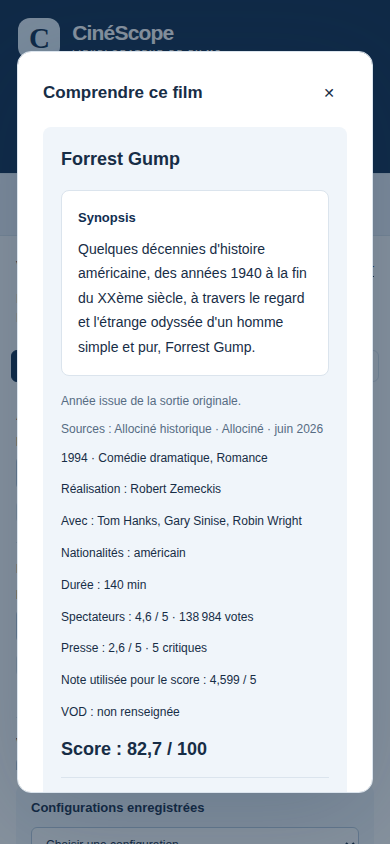
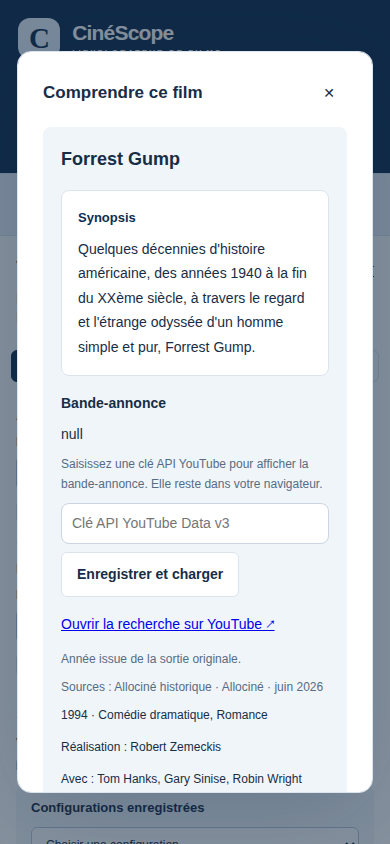
ok

Changed region(s): [[0.1538, 0.4621, 0.8308, 0.9242], [0.6154, 0.8934, 0.7692, 0.955], [0.7077, 0.8009, 0.8308, 0.8318]]

diff --git a/js/ui/results.js b/js/ui/results.js
@@ -1,36 +1,104 @@
 import { el, $, fmt, modal, labels } from "./dom.js";
+import {
+  readApiKey,
+  writeApiKey,
+  findTrailer,
+} from "../storage/youtube.js";
 const tags = (m) => m.genres.map((g) => el("span", { class: "tag" }, g));
-function trailerSection(m) {
-  const query = [m.title, m.year, "bande annonce vf"].filter(Boolean).join(" ");
-  const list = encodeURIComponent(query);
+function searchLink(query) {
   return el(
-    "section",
-    { class: "trailer" },
+    "a",
+    {
+      class: "trailer-link",
+      href:
+        "https://www.youtube.com/results?search_query=" +
+        encodeURIComponent(query),
+      target: "_blank",
+      rel: "noopener noreferrer",
+    },
+    "Ouvrir la recherche sur YouTube ↗",
+  );
+}
+function embed(section, videoId, title) {
+  section.replaceChildren(
     el("h4", {}, "Bande-annonce"),
     el(
       "div",
       { class: "trailer-frame" },
       el("iframe", {
-        src:
-          "https://www.youtube-nocookie.com/embed?listType=search&list=" + list,
-        title: "Bande-annonce de " + m.title,
+        src: "https://www.youtube-nocookie.com/embed/" + videoId,
+        title: "Bande-annonce de " + title,
         loading: "lazy",
         referrerpolicy: "strict-origin-when-cross-origin",
         allow: "encrypted-media; picture-in-picture; fullscreen",
         allowfullscreen: "",
       }),
     ),
-    el(
-      "a",
-      {
-        class: "trailer-link",
-        href: "https://www.youtube.com/results?search_query=" + list,
-        target: "_blank",
-        rel: "noopener noreferrer",
-      },
-      "Ouvrir la recherche sur YouTube ↗",
-    ),
   );
+}
+function trailerSection(m) {
+  const query = [m.title, m.year, "bande annonce vf"].filter(Boolean).join(" ");
+  const section = el("section", { class: "trailer" });
+  const keyForm = (message) => {
+    const input = el("input", {
+      type: "password",
+      class: "trailer-key",
+      placeholder: "Clé API YouTube Data v3",
+      value: readApiKey(),
+      "aria-label": "Clé API YouTube Data",
+    });
+    section.replaceChildren(
+      el("h4", {}, "Bande-annonce"),
+      message ? el("p", { class: "hint" }, message) : null,
+      el(
+        "p",
+        { class: "hint" },
+        "Saisissez une clé API YouTube pour afficher la bande-annonce. Elle reste dans votre navigateur.",
+      ),
+      el(
+        "div",
+        { class: "trailer-key-row" },
+        input,
+        el(
+          "button",
+          {
+            class: "button",
+            onclick: () => {
+              writeApiKey(input.value);
+              if (input.value.trim()) load();
+              else keyForm("Clé effacée.");
+            },
+          },
+          "Enregistrer et charger",
+        ),
+      ),
+      searchLink(query),
+    );
+  };
+  const load = () => {
+    const apiKey = readApiKey();
+    if (!apiKey) return keyForm();
+    section.replaceChildren(
+      el("h4", {}, "Bande-annonce"),
+      el("p", { class: "hint" }, "Recherche de la bande-annonce…"),
+    );
+    findTrailer(query, apiKey)
+      .then((videoId) => embed(section, videoId, m.title))
+      .catch((e) =>
+        section.replaceChildren(
+          el("h4", {}, "Bande-annonce"),
+          el("p", { class: "hint" }, e.message),
+          el(
+            "button",
+            { class: "button", onclick: () => keyForm() },
+            "Modifier la clé API",
+          ),
+          searchLink(query),
+        ),
+      );
+  };
+  load();
+  return section;
 }
 function scoreButton(m, detail) {
   return el(

diff --git a/tests/browser/app.spec.js b/tests/browser/app.spec.js
@@ -283,14 +283,27 @@ test("favorites persist and can be filtered and removed from cards", async ({ pa
   await page.reload();
   await expect(page.locator("#favorites-only")).toHaveText("★ Favoris (0)");
 });
-test("detail view embeds a YouTube trailer search for the film", async ({ page }) => {
+test("detail view asks for a YouTube key then embeds the trailer", async ({ page }) => {
+  await page.route("**/youtube/v3/search**", (route) =>
+    route.fulfill({
+      status: 200,
+      contentType: "application/json",
+      body: JSON.stringify({ items: [{ id: { videoId: "abc123XYZ_0" } }] }),
+    }),
+  );
   const row = page.locator("#table-view tbody tr").first();
-  const title = (await row.locator(".title-button").textContent()).trim();
   await row.locator(".title-button").click();
+  // No key yet: the key form and the fallback search link are shown.
+  await expect(page.locator("#modal .trailer-key")).toHaveCount(1);
+  await expect(page.locator("#modal .trailer-link")).toHaveAttribute("target", "_blank");
+  await page.locator("#modal .trailer-key").fill("test-key");
+  await page.locator("#modal .trailer button", { hasText: "Enregistrer" }).click();
   const iframe = page.locator("#modal .trailer-frame iframe");
   await expect(iframe).toHaveCount(1);
-  const src = await iframe.getAttribute("src");
-  expect(src).toContain("youtube-nocookie.com/embed?listType=search");
-  expect(decodeURIComponent(src)).toContain(title);
-  await expect(page.locator("#modal .trailer-link")).toHaveAttribute("target", "_blank");
+  await expect(iframe).toHaveAttribute("src", "https://www.youtube-nocookie.com/embed/abc123XYZ_0");
+  // Key persists: reopening a film loads the trailer without asking again.
+  await page.locator("#modal-close").click();
+  await page.locator("#table-view tbody tr").nth(1).locator(".title-button").click();
+  await expect(page.locator("#modal .trailer-frame iframe")).toHaveCount(1);
+  await expect(page.locator("#modal .trailer-key")).toHaveCount(0);
 });

diff --git a/js/storage/youtube.js b/js/storage/youtube.js
@@ -1,0 +1,57 @@
+const KEY = "cine-scope-youtube-key-v1";
+const CACHE = "cine-scope-youtube-cache-v1";
+export function readApiKey() {
+  try {
+    return localStorage.getItem(KEY) || "";
+  } catch {
+    return "";
+  }
+}
+export function writeApiKey(value) {
+  const key = (value || "").trim();
+  if (key) localStorage.setItem(KEY, key);
+  else localStorage.removeItem(KEY);
+}
+function readCache() {
+  try {
+    const value = JSON.parse(localStorage.getItem(CACHE) || "{}");
+    return value && typeof value === "object" ? value : {};
+  } catch {
+    return {};
+  }
+}
+export function getCachedVideo(query) {
+  const value = readCache()[query];
+  return typeof value === "string" ? value : null;
+}
+export function setCachedVideo(query, videoId) {
+  try {
+    const cache = readCache();
+    cache[query] = videoId;
+    localStorage.setItem(CACHE, JSON.stringify(cache));
+  } catch {
+    /* stockage indisponible : le cache est simplement ignoré */
+  }
+}
+export async function findTrailer(query, apiKey) {
+  const cached = getCachedVideo(query);
+  if (cached) return cached;
+  const url =
+    "https://www.googleapis.com/youtube/v3/search?part=snippet&type=video&videoEmbeddable=true&maxResults=1&q=" +
+    encodeURIComponent(query) +
+    "&key=" +
+    encodeURIComponent(apiKey);
+  const response = await fetch(url);
+  if (!response.ok) {
+    const message =
+      response.status === 403
+        ? "Clé API refusée ou quota YouTube dépassé."
+        : "Recherche YouTube impossible (" + response.status + ").";
+    throw Error(message);
+  }
+  const data = await response.json();
+  const videoId = data.items?.[0]?.id?.videoId;
+  if (!videoId) throw Error("Aucune bande-annonce trouvée pour ce film.");
+  setCachedVideo(query, videoId);
+  return videoId;
+}

diff --git a/css/styles.css b/css/styles.css
@@ -975,3 +975,15 @@ dialog::backdrop {
   margin-top: 8px;
   font-size: 14px;
 }
+.trailer-key-row {
+  display: flex;
+  flex-wrap: wrap;
+  gap: 8px;
+  margin: 8px 0;
+}
+.trailer-key {
+  flex: 1 1 220px;
+  padding: 8px 10px;
+  border: 1px solid #cbd5e1;
+  border-radius: 8px;
+}
